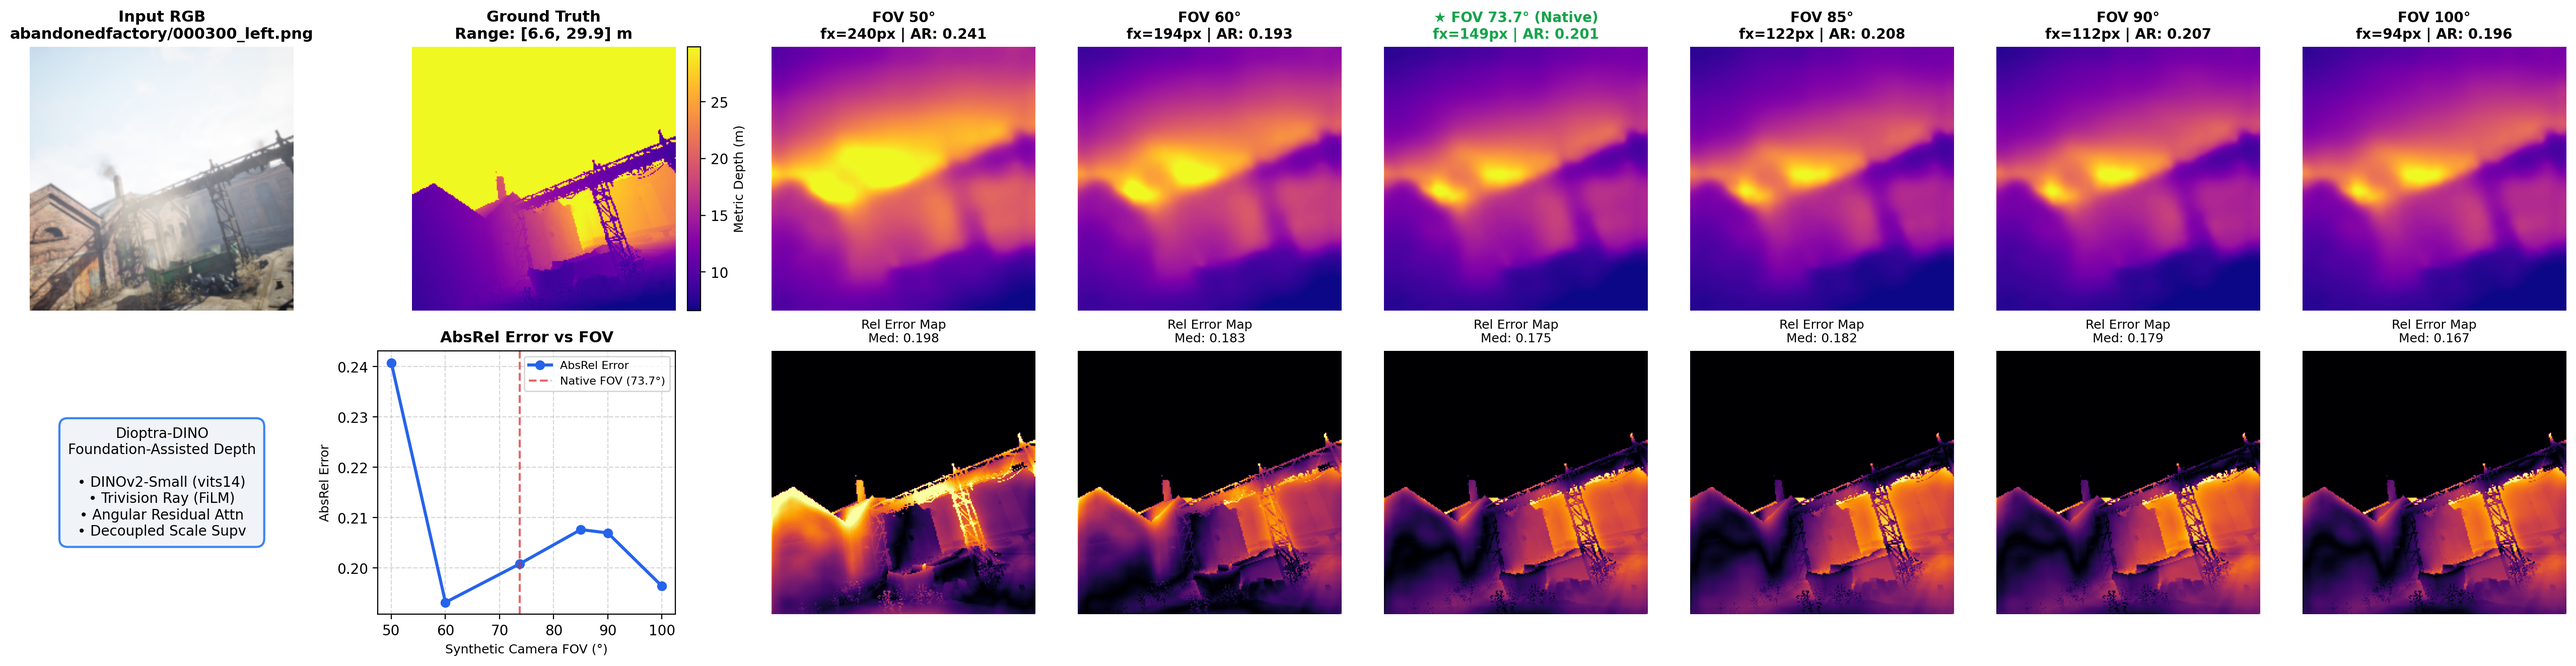
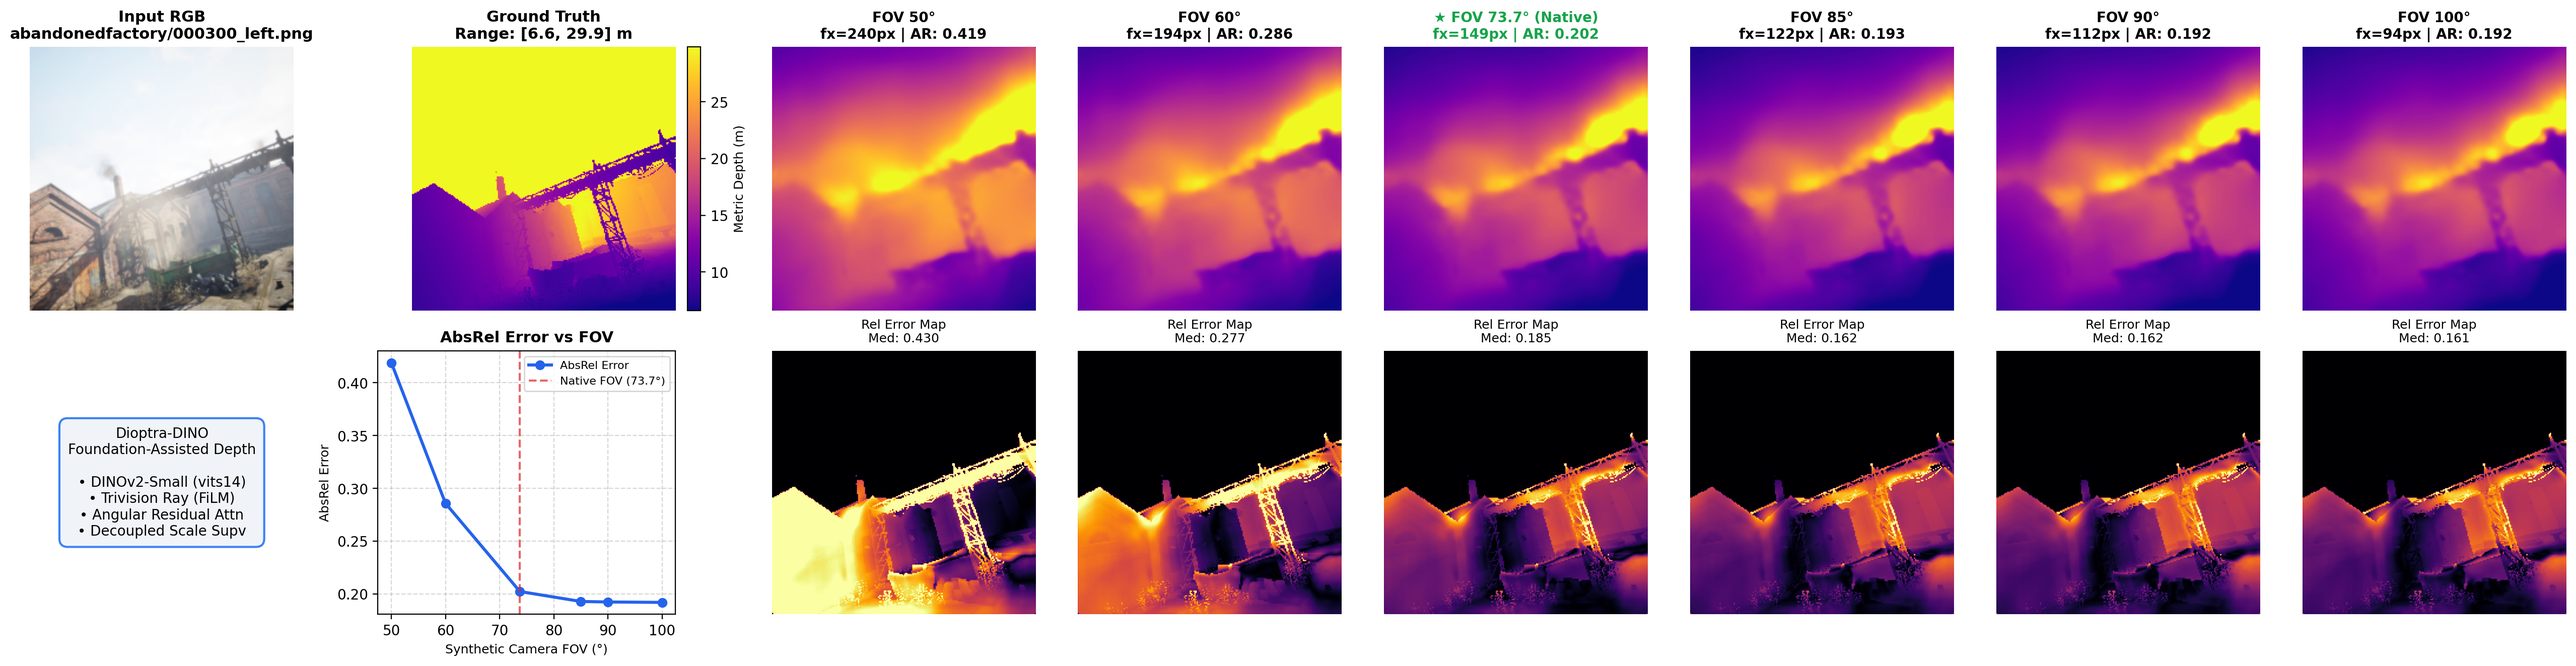
Support automatic checkpoint resume from /kaggle/input and update paper figures with Epoch 13 sweep

diff --git a/dioptra_dino.py b/dioptra_dino.py
@@ -1357,6 +1357,7 @@ def train_dioptra_dino(args):
         if isinstance(resume_arg, str) and os.path.isfile(resume_arg):
             resume_target = resume_arg
         else:
+            # 1. Search output directory
             cands = sorted(
                 glob.glob(os.path.join(output_dir, "dioptra_dino_epoch_*.pt")),
                 key=lambda p: int(os.path.splitext(p)[0].split("_")[-1]) if os.path.splitext(p)[0].split("_")[-1].isdigit() else 0
@@ -1365,10 +1366,25 @@ def train_dioptra_dino(args):
                 resume_target = cands[-1]
             elif os.path.exists(os.path.join(output_dir, "dioptra_dino_best.pt")):
                 resume_target = os.path.join(output_dir, "dioptra_dino_best.pt")
+            else:
+                # 2. Search /kaggle/input for uploaded checkpoint datasets
+                input_cands = sorted(
+                    glob.glob("/kaggle/input/**/dioptra_dino*.pt", recursive=True)
+                    + glob.glob("/kaggle/input/**/dioptra_dino*.zip", recursive=True),
+                    key=lambda p: int(os.path.splitext(os.path.basename(p))[0].split("_")[-1]) if os.path.splitext(os.path.basename(p))[0].split("_")[-1].isdigit() else 0
+                )
+                if input_cands:
+                    resume_target = input_cands[-1]
 
         if resume_target and os.path.exists(resume_target):
             print(f"[Dioptra-DINO] Resuming training from checkpoint: {resume_target}")
-            ckpt = torch.load(resume_target, map_location=device)
+            import __main__
+            if not hasattr(__main__, "DioptraDINOConfig"):
+                setattr(__main__, "DioptraDINOConfig", DioptraDINOConfig)
+            try:
+                ckpt = torch.load(resume_target, map_location=device, weights_only=False)
+            except TypeError:
+                ckpt = torch.load(resume_target, map_location=device)
             raw_model.load_state_dict(ckpt["model_state_dict"])
             start_epoch = ckpt.get("epoch", 0)
             print(f"[Dioptra-DINO] Successfully restored model weights! Resuming at Epoch {start_epoch + 1}/{cfg.epochs}")
